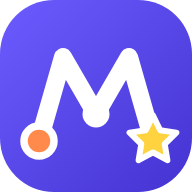
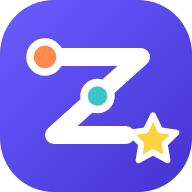
Rename the app to Zsebmatek; GitHub Pages deployment; fix offline install
- Name: Zsebmatek everywhere students see it (title, manifest, welcome,
  header, backup file name zsebmatek-mentes-*.json). Internal keys keep the
  old name, so saved progress survives; old backup files still import.
- Logo: a zig-zag "Z" trail with checkpoints and a star; PNG icons
  regenerated with the new scripts/dev/icons.mjs.
- .github/workflows/deploy-pages.yml: on every push to master runs npm ci,
  npm run check and npm run build, then publishes dist/ to GitHub Pages.
- Fix: sw.js is now written in writeBundle from the final file list. It
  used to precache an empty CSS-only chunk that Vite deletes later, so the
  service worker install failed with a 404 and offline mode never worked.
  Verified under /math-app/: service worker active, map and lessons load
  offline.

Claude-Session: https://claude.ai/code/session_01VzeKXyHmkQdsLZPmxhjs3V

Changed region(s): [[0.0938, 0.1875, 0.8125, 0.8438], [0.5938, 0.4688, 0.625, 0.5312]]

diff --git a/vite.config.ts b/vite.config.ts
@@ -1,4 +1,5 @@
-import { readdirSync } from 'node:fs';
+import { readdirSync, writeFileSync } from 'node:fs';
+import { join } from 'node:path';
 import { createHash } from 'node:crypto';
 import { defineConfig, type Plugin } from 'vite';
 import react from '@vitejs/plugin-react';
@@ -10,18 +11,21 @@ import react from '@vitejs/plugin-react';
  * - every other same-origin GET: cache first (file names are content-hashed), cached on first use;
  * - the cache name contains a hash of the file list, old caches are deleted on activate.
  * Registered by src/pwa.ts in production builds only.
+ * Written in `writeBundle`, i.e. from the *final* file list: in `generateBundle` the bundle still
+ * holds chunks Vite removes afterwards (empty JS chunks of CSS-only modules); precaching one of
+ * those makes the install fail (404) and the app never works offline.
  */
 function serviceWorker(): Plugin {
   return {
-    name: 'matek-kaland-sw',
+    name: 'zsebmatek-sw',
     apply: 'build',
-    generateBundle(_options, bundle) {
+    writeBundle(options, bundle) {
       const emitted = Object.keys(bundle).filter((f) => !/\.(woff|ttf|map)$/.test(f));
       const publicFiles = readdirSync(new URL('./public', import.meta.url)).filter((f) => !f.startsWith('.'));
       const files = ['./', 'index.html', ...publicFiles, ...emitted].filter((f, i, a) => a.indexOf(f) === i);
       const version = createHash('sha256').update(files.sort().join('\n')).digest('hex').slice(0, 12);
       const source = `// Generated by vite.config.ts — do not edit.
-const CACHE = 'matek-kaland-${version}';
+const CACHE = 'zsebmatek-${version}';
 const PRECACHE = ${JSON.stringify(files)};
 
 self.addEventListener('install', (event) => {
@@ -31,7 +35,7 @@ self.addEventListener('install', (event) => {
 self.addEventListener('activate', (event) => {
   event.waitUntil(
     caches.keys()
-      .then((keys) => Promise.all(keys.filter((k) => k.startsWith('matek-kaland-') && k !== CACHE).map((k) => caches.delete(k))))
+      .then((keys) => Promise.all(keys.filter((k) => (k.startsWith('zsebmatek-') || k.startsWith('matek-kaland-')) && k !== CACHE).map((k) => caches.delete(k))))
       .then(() => self.clients.claim()),
   );
 });
@@ -66,7 +70,7 @@ self.addEventListener('fetch', (event) => {
   );
 });
 `;
-      this.emitFile({ type: 'asset', fileName: 'sw.js', source });
+      writeFileSync(join(options.dir ?? 'dist', 'sw.js'), source);
     },
   };
 }

diff --git a/src/state/progress.ts b/src/state/progress.ts
@@ -245,13 +245,14 @@ export function recordDaily(grade: number, date: string, correct: number, total:
 // ---------------------------------------------------------------------------------------------
 
 export interface ProgressFile {
-  app: 'matek-kaland';
+  /** 'matek-kaland' in files saved before the app was renamed (still accepted). */
+  app: 'zsebmatek' | 'matek-kaland';
   exportedAt: string;
   state: AppState;
 }
 
 export function exportProgressJson(): string {
-  const file: ProgressFile = { app: 'matek-kaland', exportedAt: new Date().toISOString(), state: getState() };
+  const file: ProgressFile = { app: 'zsebmatek', exportedAt: new Date().toISOString(), state: getState() };
   return JSON.stringify(file, null, 2);
 }
 
@@ -261,7 +262,7 @@ export function downloadProgress(): void {
   const url = URL.createObjectURL(blob);
   const a = document.createElement('a');
   a.href = url;
-  a.download = `matek-kaland-mentes-${todayBelgrade()}.json`;
+  a.download = `zsebmatek-mentes-${todayBelgrade()}.json`;
   document.body.appendChild(a);
   a.click();
   a.remove();
@@ -272,7 +273,8 @@ export function downloadProgress(): void {
 export function parseProgressFile(text: string): AppState | null {
   try {
     const data = JSON.parse(text) as unknown;
-    if (typeof data === 'object' && data !== null && (data as ProgressFile).app === 'matek-kaland') {
+    const app = typeof data === 'object' && data !== null ? (data as ProgressFile).app : undefined;
+    if (app === 'zsebmatek' || app === 'matek-kaland') {
       return sanitizeState((data as ProgressFile).state);
     }
     return sanitizeState(data); // a raw state object also works

diff --git a/src/i18n/hu.ts b/src/i18n/hu.ts
@@ -5,7 +5,7 @@
  * Plain strings may contain RichText ($math$, **bold**) where they are rendered with <Rich>.
  */
 export const t = {
-  appName: 'Matek Kaland',
+  appName: 'Zsebmatek',
   tagline: 'Gyakorolj játékosan, minden nap egy kicsit!',
 
   common: {
@@ -35,7 +35,7 @@ export const t = {
 
   shell: {
     mainNav: 'Fő menü',
-    home: 'Matek Kaland – vissza a térképre',
+    home: 'Zsebmatek – vissza a térképre',
     streakAria: (n: number) => `Sorozat: ${n} nap`,
     streakTodo: 'A mai napi kihívás még hátravan.',
     xpAria: (n: number) => `Összes XP: ${n}`,
@@ -48,7 +48,7 @@ export const t = {
   },
 
   onboarding: {
-    welcome: 'Szia! Üdv a Matek Kalandban!',
+    welcome: 'Szia! Üdv a Zsebmatekben!',
     intro: 'Itt lépésről lépésre gyakorolhatod az év matekanyagát. Válaszd ki, hányadikos vagy!',
     pickGrade: 'Hányadik osztályba jársz?',
     nicknameLabel: 'Becenév (nem kötelező)',
@@ -291,7 +291,7 @@ export const t = {
     importBtn: 'Haladás visszatöltése fájlból',
     exportDone: 'A mentés elkészült. Tedd biztonságos helyre a fájlt!',
     importDone: 'A haladásod visszatöltve!',
-    importError: 'Ezt a fájlt nem sikerült beolvasni. Biztosan a Matek Kaland mentése?',
+    importError: 'Ezt a fájlt nem sikerült beolvasni. Biztosan a Zsebmatek mentése?',
     importConfirm: 'A betöltés felülírja a jelenlegi haladást ezen az eszközön. Folytatod?',
     storageWarning:
       'Fontos: a haladásod csak ebben a böngészőben van elmentve. Ha törlöd a böngészési adatokat, a haladás is elvész. Időnként mentsd el fájlba!',

diff --git a/src/ui/AppShellIcons.tsx b/src/ui/AppShellIcons.tsx
@@ -125,7 +125,7 @@ export function FlagIcon({ size = 16 }: { size?: number }) {
 }
 
 /**
- * The app logo: a winding trail of checkpoints drawn as a big "M", ending in a star.
+ * The app logo: a zig-zag trail of checkpoints drawn as a big "Z" (Zsebmatek), ending in a star.
  * Same drawing as public/icon.svg. Uses its own colors (it is a logo).
  */
 export function Logo({ size = 36 }: { size?: number }) {
@@ -138,9 +138,9 @@ export function Logo({ size = 36 }: { size?: number }) {
         </linearGradient>
       </defs>
       <rect width="64" height="64" rx="18" fill="url(#mk-logo-bg)" />
-      <path d="M13 47 21 19l11 19 11-19 8 28" fill="none" stroke="#fff" strokeWidth="6" strokeLinecap="round" strokeLinejoin="round" />
-      <circle cx="13" cy="47" r="5" fill="#ff8a4c" stroke="#fff" strokeWidth="2.5" />
-      <circle cx="32" cy="38" r="4.5" fill="#fff" />
+      <path d="M15 19H47L18 45H42" fill="none" stroke="#fff" strokeWidth="6" strokeLinecap="round" strokeLinejoin="round" />
+      <circle cx="15" cy="19" r="5" fill="#ff8a4c" stroke="#fff" strokeWidth="2.5" />
+      <circle cx="32.5" cy="32" r="4.5" fill="#3cc6c8" stroke="#fff" strokeWidth="2.5" />
       <path d="M51 38.5l2.4 4.9 5.4.8-3.9 3.8.9 5.4-4.8-2.6-4.8 2.6.9-5.4-3.9-3.8 5.4-.8z" fill="#ffd23f" stroke="#fff" strokeWidth="2" strokeLinejoin="round" />
     </svg>
   );

diff --git a/index.html b/index.html
@@ -4,13 +4,13 @@
     <meta charset="UTF-8" />
     <meta name="viewport" content="width=device-width, initial-scale=1, viewport-fit=cover" />
     <meta name="theme-color" content="#5a4ff3" />
-    <meta name="description" content="Matek Kaland – játékos matekgyakorló 5., 7. és 8. osztályosoknak." />
+    <meta name="description" content="Zsebmatek – játékos matekgyakorló 5., 7. és 8. osztályosoknak." />
     <link rel="icon" href="./icon.svg" type="image/svg+xml" />
     <link rel="apple-touch-icon" href="./apple-touch-icon.png" />
     <link rel="manifest" href="./manifest.webmanifest" />
     <meta name="apple-mobile-web-app-capable" content="yes" />
-    <meta name="apple-mobile-web-app-title" content="Matek Kaland" />
-    <title>Matek Kaland</title>
+    <meta name="apple-mobile-web-app-title" content="Zsebmatek" />
+    <title>Zsebmatek</title>
     <script>
       // dark mode before the first paint (no light flash); the app keeps it in sync afterwards
       try {

diff --git a/scripts/check.ts b/scripts/check.ts
@@ -115,7 +115,7 @@ function printIssues(issues: ValidationIssue[], indent: string): void {
 
 async function main(): Promise<number> {
   const t0 = performance.now();
-  console.log(`Matek Kaland — content check (seeds: ${SEEDS}${ONLY ? `, only: ${ONLY}` : ''})\n`);
+  console.log(`Zsebmatek — content check (seeds: ${SEEDS}${ONLY ? `, only: ${ONLY}` : ''})\n`);
   const allIssues: ValidationIssue[] = [];
 
   // --- catalog + modules ---

diff --git a/src/dev/DevScreen.tsx b/src/dev/DevScreen.tsx
@@ -145,7 +145,7 @@ export default function DevScreen() {
   return (
     <div className="dev-page">
       <div className="dev-top">
-        <h1>Matek Kaland · fejlesztői oldal</h1>
+        <h1>Zsebmatek · fejlesztői oldal</h1>
         <div className="dev-links">
           <button type="button" className="btn btn-small btn-ghost" onClick={() => navigate({ name: 'devGallery' })}>
             Ábragaléria

diff --git a/src/state/store.ts b/src/state/store.ts
@@ -5,6 +5,7 @@
  */
 import { useSyncExternalStore } from 'react';
 
+/** Kept from the app's first name (Matek Kaland) so saved progress survives the rename. */
 export const STORAGE_KEY = 'matek-kaland:v1';
 /**
  * 2: theme is 'light' | 'dark' (default light, the old 'auto' became light) and sound is on by

diff --git a/HANDOFF.md b/HANDOFF.md
@@ -1,4 +1,7 @@
-# Matek Kaland — handoff
+# Zsebmatek — handoff
+
+(First called "Matek Kaland"; renamed on 2026-10-24. Internal keys such as the localStorage key
+`matek-kaland:v1` keep the old name on purpose, so saved progress survives.)
 
 A "Duolingo-style" math practice web app for grades 5, 7 and 8 (Serbian curriculum, Hungarian
 language of instruction). Pure static site: React + Vite + TypeScript; progress is stored only on
@@ -37,6 +40,9 @@ Teacher feedback round (same day), done so far:
 - Visual refresh: bundled DynaPuff + Nunito fonts (Hungarian ő/ű checked), cartoon sticker style
   (ink outlines, hard offset shadows), popping effects (star burst, flying XP, exploding confetti,
   springy entrances). See DECISIONS "Look and feel". Checked at 360/375/1280, light and dark.
+- Renamed to **Zsebmatek** with a "Z" trail logo (`public/icon*.svg`, PNGs via
+  `node scripts/dev/icons.mjs`). Live site: **https://janosapro.github.io/math-app/** (GitHub
+  Pages, `.github/workflows/deploy-pages.yml`, deploys every push to `master`).
 - Browser scripts: `openPage({ motion: true })` in `scripts/dev/drive.mjs` keeps animations on
   (default is reduced motion, which makes the e2e run fast and stable).
 
@@ -171,7 +177,14 @@ Add the ids of the lessons you have covered in class (ids are in `CONTENT_STATUS
 challenge only picks from these. An empty list means "every lesson that has content". Commit and
 push — the site redeploys automatically (see below).
 
-## Deployment (Cloudflare Pages, automatic on every push)
+## Deployment: GitHub Pages (set up, automatic on every push to master)
+Live at **https://janosapro.github.io/math-app/**. `.github/workflows/deploy-pages.yml` runs
+`npm ci`, `npm run check` and `npm run build`, then publishes `dist/`. A failing check stops the
+deploy, so broken content never goes live. One-time setup (already needed only once): repository
+Settings → Pages → Build and deployment → Source: **GitHub Actions**. Manual re-deploy: Actions →
+"Deploy to GitHub Pages" → Run workflow.
+
+### Alternative: Cloudflare Pages
 1. Push this repository to GitHub.
 2. Cloudflare dashboard → Workers & Pages → Create → Pages → "Connect to Git" → pick the repo.
 3. Build settings: framework preset **None** (or Vite), build command **`npm run build`**,

diff --git a/docs/tasks/CLOUD_PROMPT.md b/docs/tasks/CLOUD_PROMPT.md
@@ -2,7 +2,7 @@
 
 Paste this as the task:
 
-> Continue building the Matek Kaland app. Read CLAUDE.md, AGENTS.md and HANDOFF.md (start at the
+> Continue building the Zsebmatek app (formerly Matek Kaland). Read CLAUDE.md, AGENTS.md and HANDOFF.md (start at the
 > "RESUME HERE" table), then docs/tasks/00-README.md. Finish the remaining build tasks in this
 > order: 02 (lesson player: lesson CSS, demoLesson, PreviewScreen, verification) → 01 (MapScreen,
 > SoftLockDialog, Profile, Settings, PWA) → 04 (nets + solids/nets galleries) → 06 (coordinate and

diff --git a/DECISIONS.md b/DECISIONS.md
@@ -179,6 +179,8 @@ Architectural choices and why. Add new entries at the end of a section.
   its contrast in dark mode, where the accents are lighter.
 
 ## Hosting
+- **GitHub Pages** via GitHub Actions (`.github/workflows/deploy-pages.yml`): free for a public
+  repository, deploys on every push to `master`, and runs `npm run check` first.
 - `base: './'` in vite.config.ts so `dist/` works under any path (GitHub Pages project sites,
   Cloudflare Pages). Cloudflare Pages: build command `npm run build`, output directory `dist`
   (see HANDOFF.md).
